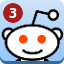
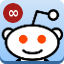
Wrote notifications function, added timing

Changed region(s): [[0.125, 0.125, 0.2812, 0.2812]]

diff --git a/lib/main.js b/lib/main.js
@@ -1,11 +1,11 @@
 //Reddit Notifier - v0.1
 
 //Get dependencies
-const data = require('self').data;
+var data = require('self').data;
 var prefs = require("sdk/simple-prefs");
-//var widget = require("sdk/widget");
 var request = require("sdk/request");
 var notifications = require("sdk/notifications");
+var timers = require("sdk/timers");
 var windowutils = require("window-utils");
 var toolbarbutton = require("./toolbarbutton");
 var userstyles = require("./userstyles");
@@ -13,10 +13,14 @@ var userstyles = require("./userstyles");
 var config = {
 	name: "RedditNotifier",
 	unreadURL: "http://www.reddit.com/message/unread.json",
+	delayLoad: 2000,
 	icons: {
 		big: data.url("reddit-notifier-icon.png"),
 		small: data.url("reddit-notifier-icon-small.png"),
 		smallUnread: data.url("reddit-notifier-icon-small-unread.png")
+	},
+	errors: {
+		loggedOut: "It looks like you are logged out of Reddit. Try logging in."
 	},
 	toolbar: {
 		id: "redditnotifierbutton",
@@ -33,12 +37,12 @@ var config = {
 
 var main = {
 	addonButton: null,
+	numUnread: 0,
+	error: false,
 
 	init: function(options, callbacks) {
 		//do stuff on load of the addon
 		main.onLoad(options.loadReason);
-
-		console.log(main.requestUnread());
 	},
 	onLoad: function(loadReason) {
 		console.log(loadReason);
@@ -51,8 +55,7 @@ var main = {
 		  	backgroundColor: config.toolbar.backgroundColor,
 		  	onClick: function (e) {
 		  		if (e.button == 1 || (e.button == 0 && e.ctrlKey)) {
-		  			console.log("Middle click");
-		  			main.addonButton.badge = main.requestUnread();
+		  			main.update();
 		  		}
 		  	},
 		  	onCommand: function () {
@@ -65,6 +68,41 @@ var main = {
 		}
 		//Sets the image and such
 		userstyles.load(data.url("overlay.css"));
+		//run the for the first time, don't do it right when the browser loads though
+		timers.setTimeout(main.update, config.delayLoad);
+	},
+	update: function() {
+		//store the old number for comparison
+		var oldNum = main.numUnread;
+		//get the number of unread items
+		var unread = main.requestUnread();
+		//user is logged out (only display once per session)
+		if (!unread) {
+			if (!main.error) {
+				main.notify("Error", config.errors.loggedOut, function() {
+					console.log("Error clicked");
+				});
+				main.error = true;
+			}
+		} else {
+			main.error = false;
+			//continue on with your lives
+			main.numUnread = unread;
+			//There are probably new messages
+			if (main.numUnread > oldNum) {
+				main.notify("New Messages", "There are " + main.numUnread + " unread messages.", function() {
+					console.log("Notification clicked");
+				});
+			}
+			//change the badge
+			main.addonButton.badge = main.numUnread;
+			//change the icon
+			if (main.numUnread > 0) {
+				main.addonButton.type = "unread";
+			} else {
+				main.addonButton.type = "read";
+			}
+		}
 	},
 	requestUnread: function() {
 		request.Request({
@@ -73,13 +111,27 @@ var main = {
 				if ("data" in response) {
 					var data = response["data"]["children"];
 					console.log(data.length);
+					return 1;
 				} else {
-					console.log("Looks like you are logged out");
+					return false;
 				}
 			}
 		}).get();
 		//Testing
-		return 1;
+		//return 1;
+	},
+	notify: function(title, text, callback, data) {
+		notifications.notify({
+			title: config.name + " - " + title,
+		 	text: text,
+		 	iconURL: config.icons.big,
+		 	data: data,
+		 	onClick: function(data) {
+		 		if (typeof(callback) === 'function') {
+		 			callback(data);
+		 		}
+		 	}
+		});
 	}
 }
 

diff --git a/lib/toolbarbutton.js b/lib/toolbarbutton.js
@@ -40,15 +40,15 @@ exports.ToolbarButton = function ToolbarButton(options) {
       svg.setAttribute("height", "16");
 
       let circle = doc.createElementNS(NS_SVG, "circle");
-      circle.setAttribute("cx", "17");
-      circle.setAttribute("cy", "13");
+      circle.setAttribute("cx", "5");
+      circle.setAttribute("cy", "5");
       circle.setAttribute("r", "5");
       circle.setAttribute("fill", "transparent");
       svg.appendChild(circle);
 
       let text = doc.createElementNS(NS_SVG, "text");
-      text.setAttribute("x", "17");
-      text.setAttribute("y", "16");
+      text.setAttribute("x", "5");
+      text.setAttribute("y", "8");
       text.setAttribute("font-size", "10");
       text.setAttribute("text-anchor", "middle");
       text.setAttribute("font-family", "Helvetica");

diff --git a/data/overlay.css b/data/overlay.css
@@ -1,3 +1,6 @@
 .redditnotifier-image {
-  list-style-image: url('testing.png');
+  list-style-image: url('reddit-notifier-icon-read.png');
+}
+.redditnotifier-image[type=unread] {
+	list-style-image: url('reddit-notifier-icon-unread.png');
 }
